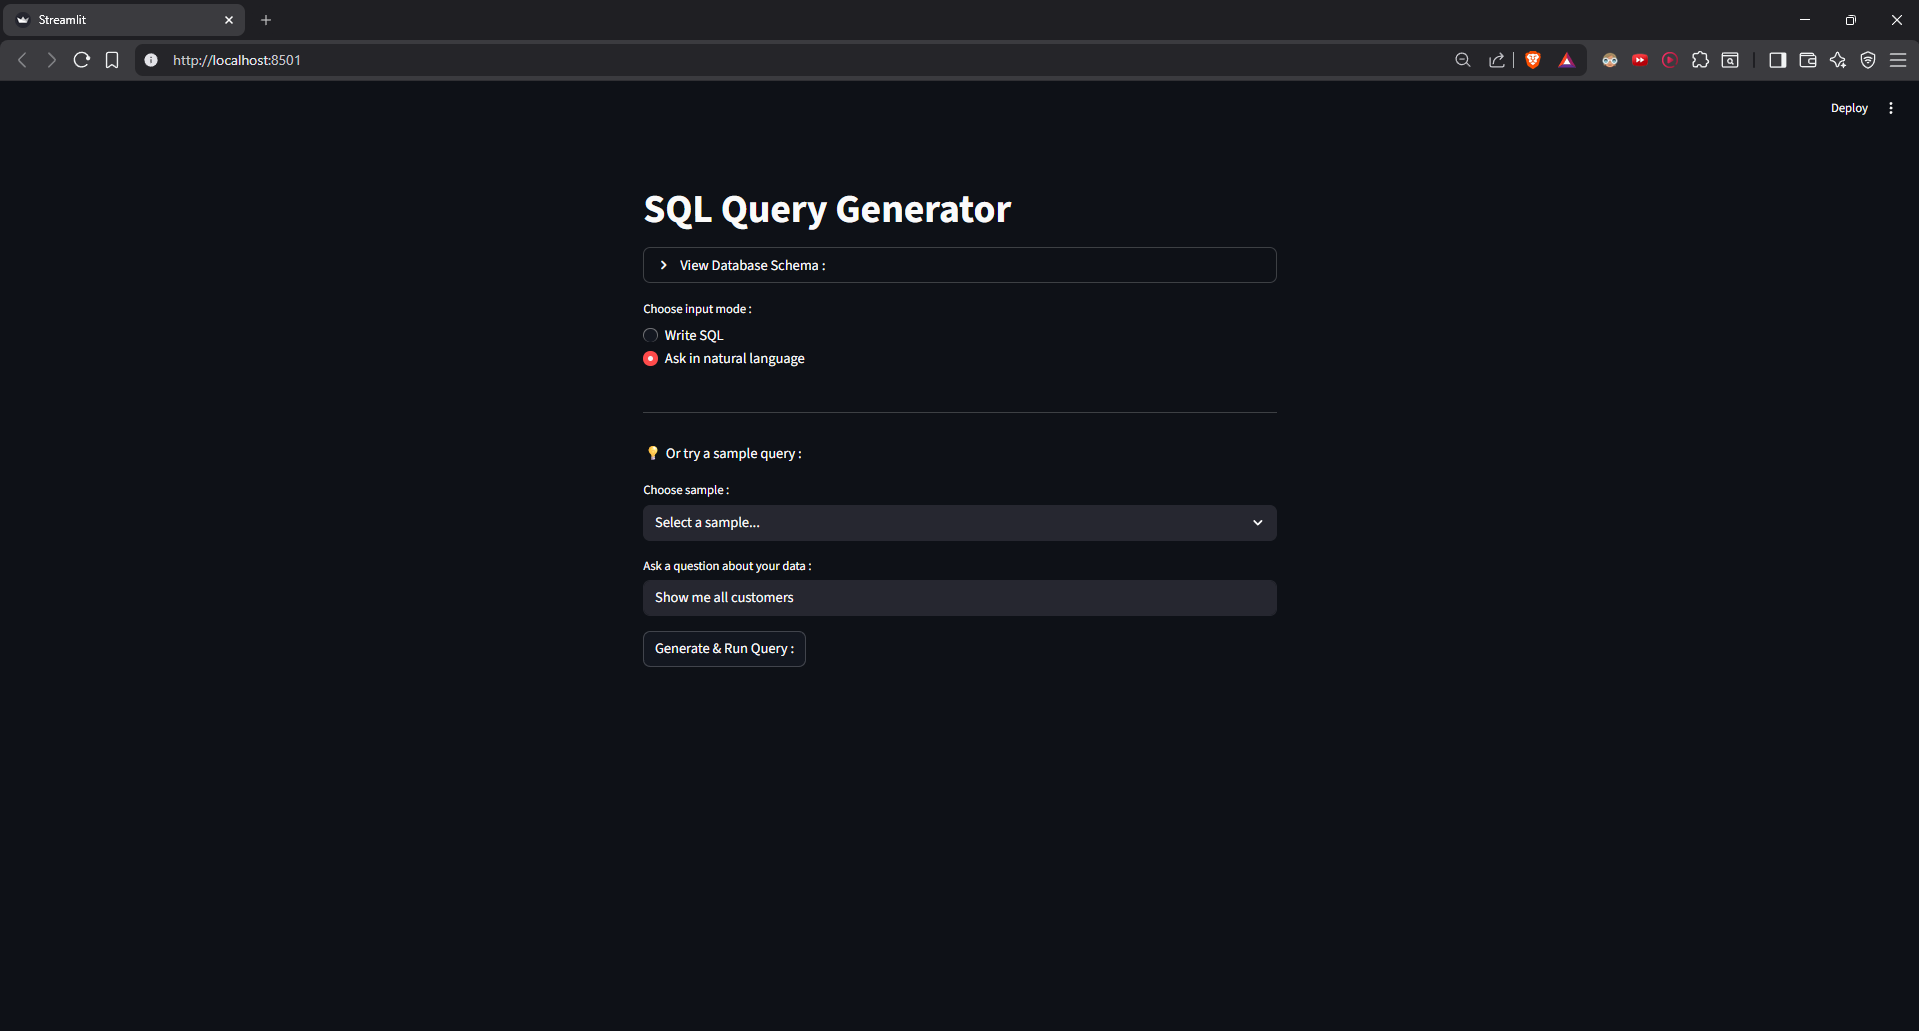
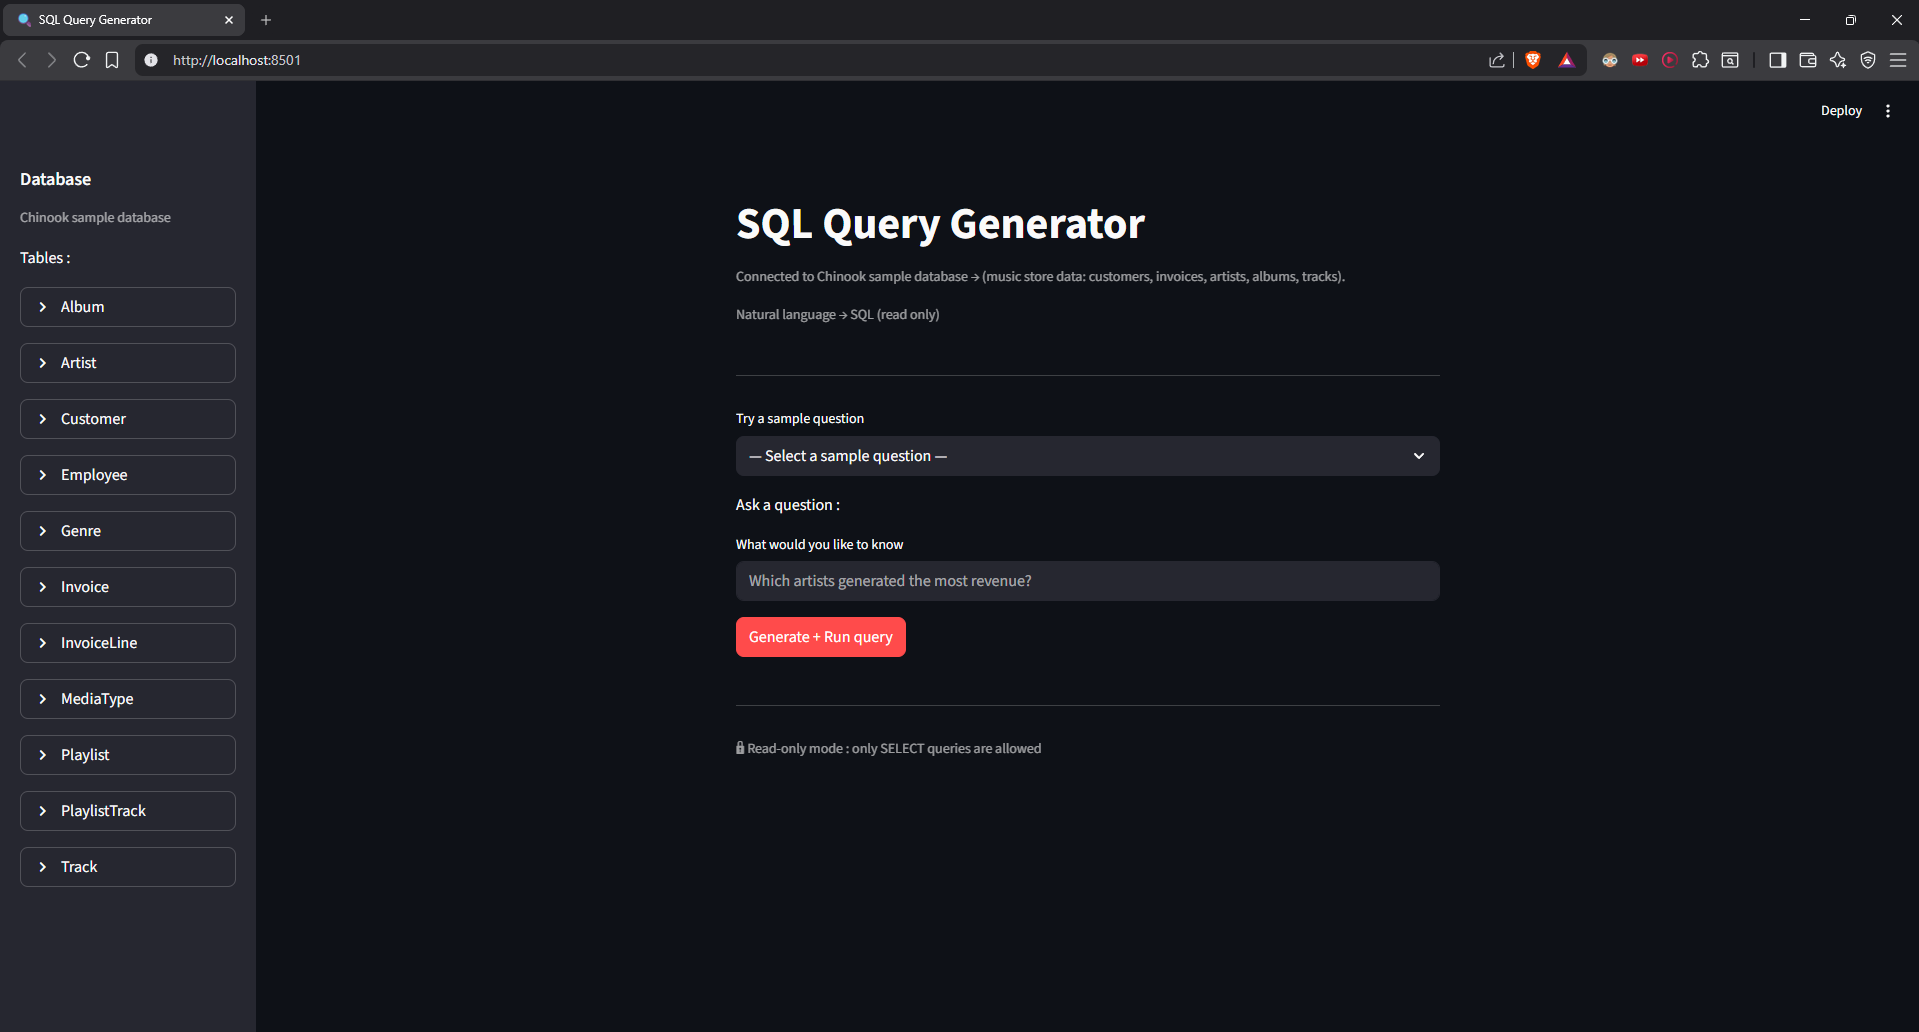
docs : improve README with architecture and limitations

diff --git a/README.md b/README.md
@@ -1,58 +1,75 @@
 # SQL Query Generator 🔍
 
-Natural language to SQL query system - Ask questions about your database in plain English, get SQL queries generated, validated, and executed automatically.
+A safe, schema-aware **Natural Language → SQL** application that allows users to query a database using plain English.
+The system generates SQL using an LLM, validates it for safety, and executes it in a controlled, read-only manner.
 
-[Live Demo](https://querymate-ai.streamlit.app/) | [GitHub](https://github.com/kaydee001/sql-query-generator)
+[Live Demo](https://querymate-ai.streamlit.app/)
+
+---
 
 ## 🎯 What It Does
 
-This application allows non-technical users to query databases using natural language. It generates SQL queries using LLM technology, validates them for safety, and displays results in an easy-to-read format.
+This application allows users to ask questions about a database in natural language and receive query results without writing SQL manually.
 
-**Example:**
-```
-User: "Show me customers who spent more than 1000"
-System: Generates → SELECT * FROM customers WHERE total_spent > 1000
-System: Validates → Safe ✅
-System: Executes → Shows results
-```
+**Example flow:**
+
+User question → LLM generates SQL → Validator checks safety → Executor runs query → Results displayed
 
 ## ✨ Features
 
-- 🤖 **Natural Language to SQL** - Ask questions in plain English
-- 🛡 **Query Validation** - Prevents dangerous operations (DROP, DELETE without WHERE, etc.)
-- 📊 **Database Schema Viewer** - See available tables and columns
-- 💡 **Sample Queries** - Pre-built examples to get started
-- ⚡ **Dual Input Modes** - Write SQL directly or use natural language
-- 🎨 **Clean UI** - Built with Streamlit for easy interaction
+- 🤖 Natural Language to SQL
+- 🧠 Schema-Aware Prompting (LLM sees actual DB schema)
+- 🛡 Read-Only SQL Enforcement (SELECT-only execution)
+- 📊 Database Schema Viewer
+- 💡 Sample Questions for Quick Start
+- 🎨 Simple, Clean UI built with Streamlit
+
+## 🧩 Architecture Overview
+
+The application is structured into clear, single-responsibility modules:
+
+- **UI (app.py)** – User interaction and result display
+- **Service Layer (service.py**) – Orchestrates the NL → SQL pipeline
+- **LLM (llm.py)** – Converts natural language to SQL
+- **Validator (validator.py)** – Enforces SQL safety rules
+- **Executor (executor.py)** – Executes validated queries
+- **Schema (schema.py)** – Extracts database metadata
+- **Config (config.py)** – Centralized configuration
+
+This separation keeps the system debuggable, safe, and maintainable.
+
+## 🔒 Safety Design
+
+Multiple layers prevent unsafe execution:
+
+- Only SELECT queries are allowed
+- Dangerous keywords (DROP, ALTER, PRAGMA, etc.) are blocked
+- Multiple SQL statements are disallowed
+- Executor performs a final safety check before execution
+- Errors are handled gracefully and surfaced to the user
+
+## ⚠ Known Limitations
+
+- Fixed sample database (SQLite Chinook DB)
+- Read-only queries only
+- Complex or ambiguous questions may fail
+- SQLite-specific schema introspection
+- Not optimized for large datasets
 
 ## 🛠 Tech Stack
 
-- **Python** - Core programming language
-- **Streamlit** - Web UI framework
-- **SQLite** - Database (easily adaptable to MySQL/PostgreSQL)
-- **Groq API** - LLM for natural language processing
-- **LLaMA 3.3 70B** - Language model for SQL generation
+- **Python**
+- **Streamlit**
+- **SQLite**
+- **Groq API**
+- **Pandas**
+- **LLaMA 3.3 70B**
 
 
 ## 📸 Screenshots
 
-[TODO: Add screenshots here after deployment]
-
-### Natural Language Mode
-![Natural Language Query](screenshot1.png)
-
-### SQL Mode with Validation
-![Query Validation](screenshot2.png)
-
-## 🔒 Safety Features
-
-The application includes multiple safety layers:
-
-- **Query Validation**: Blocks DROP, TRUNCATE, ALTER commands
-- **WHERE Clause Enforcement**: Prevents DELETE/UPDATE without conditions
-- **Error Handling**: Graceful failure with user-friendly messages
-- **Preview Before Execute**: Shows generated SQL before running
+![Screenshot](screenshot1.png)
 
 ---
 
-**Built as part of my AI/ML learning journey** 🚀
+**Built as a practical, production-minded AI engineering project** 🚀
